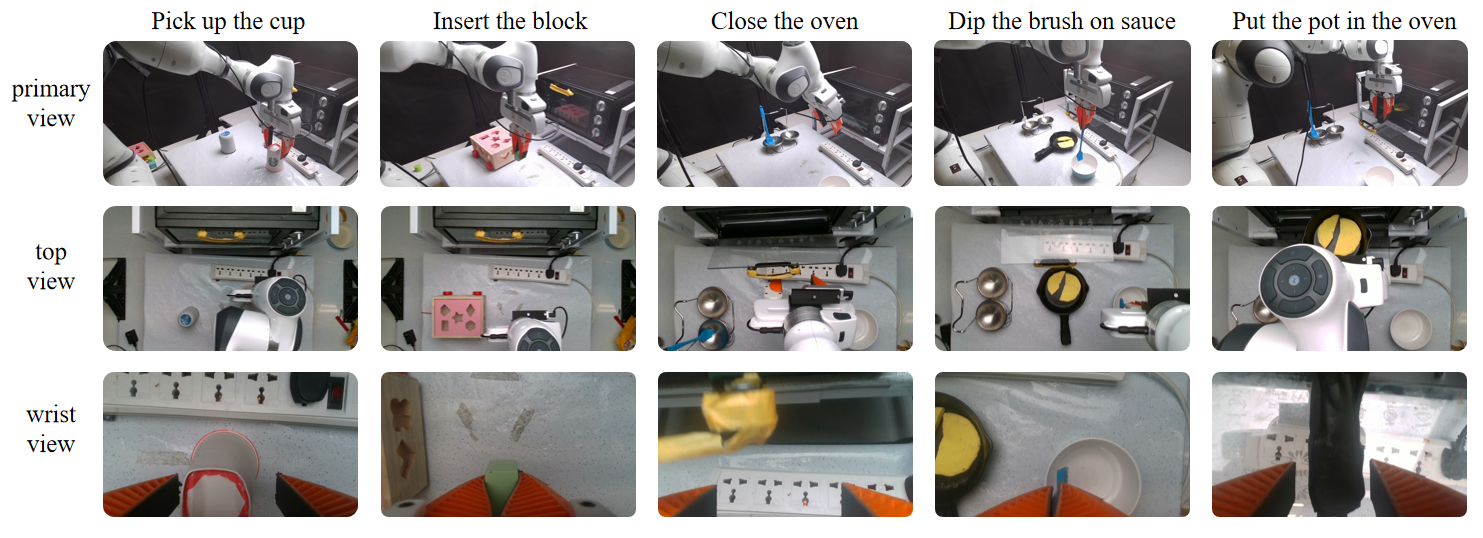
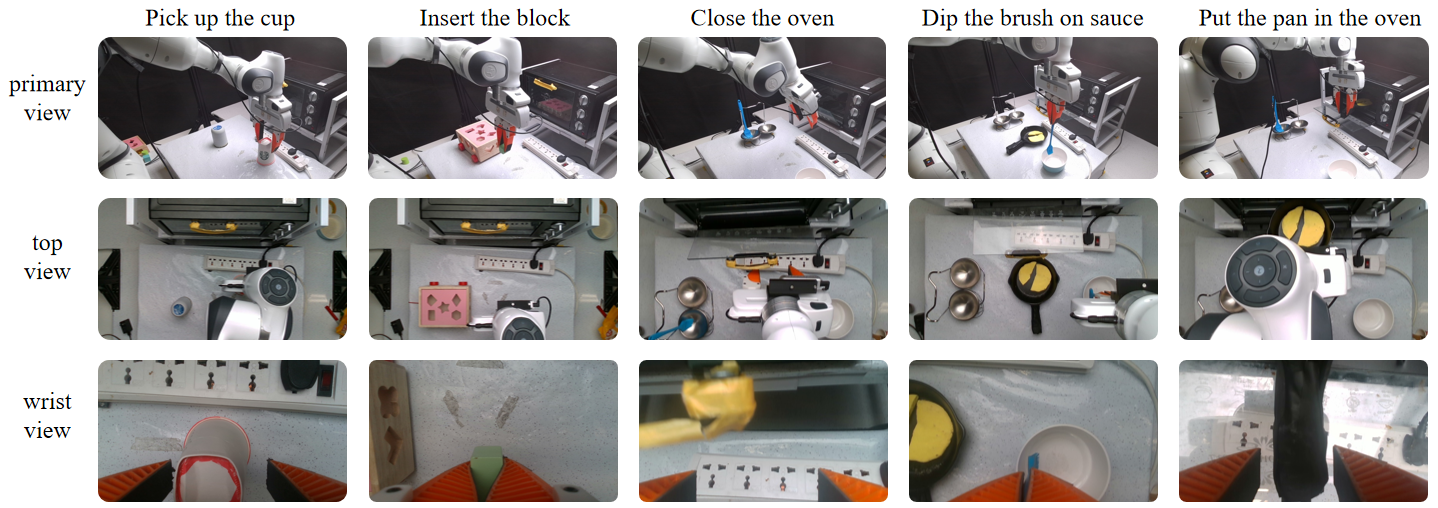
Update video and html

diff --git a/index.html b/index.html
@@ -386,7 +386,7 @@
                 </li>
 
                 <li style="margin-bottom: 12px;">
-                  🎯 <b>Instruction & Multi-Frame Guided Learning</b>: We fuse language instructions with multi-frame cues, improving intention understanding and producing more accurate latent actions.
+                  🎯 <b>Instruction & Multi-Frame Guided Learning</b>: We combine language instructions with multi-frame cues, enabling clearer intent comprehension and more precise latent action generation.
                 </li>
 
               </ul>
@@ -561,10 +561,10 @@
     <div class="columns is-centered has-text-centered">
       <div class="column is-four-fifths">
           <h2 class="title is-3">The Distilled VLM Benefits from Latent Actions</h2>
-          <!-- <img src="static/images/real_world.png" alt="Heat the Food Sequence" class="fullwidth">
+          <img src="static/images/real_world.png" alt="Heat the Food Sequence" class="fullwidth">
           <div class="prompt-text" style="text-align: justify;">
             Tasks include pick-up, insertion, and other manipulation skills that demand both precise translational control and rotational motions.
-          </div> -->
+          </div>
           <img src="static/images/heat_map.png" alt="Heat the Food Sequence" class="fullwidth">
           <div class="prompt-text" style="text-align: justify;">
             We visualize the attention maps between the final text token and the visual features for both \( \pi_{0.5} \) and our model across various real-robot tasks, and observe that 
